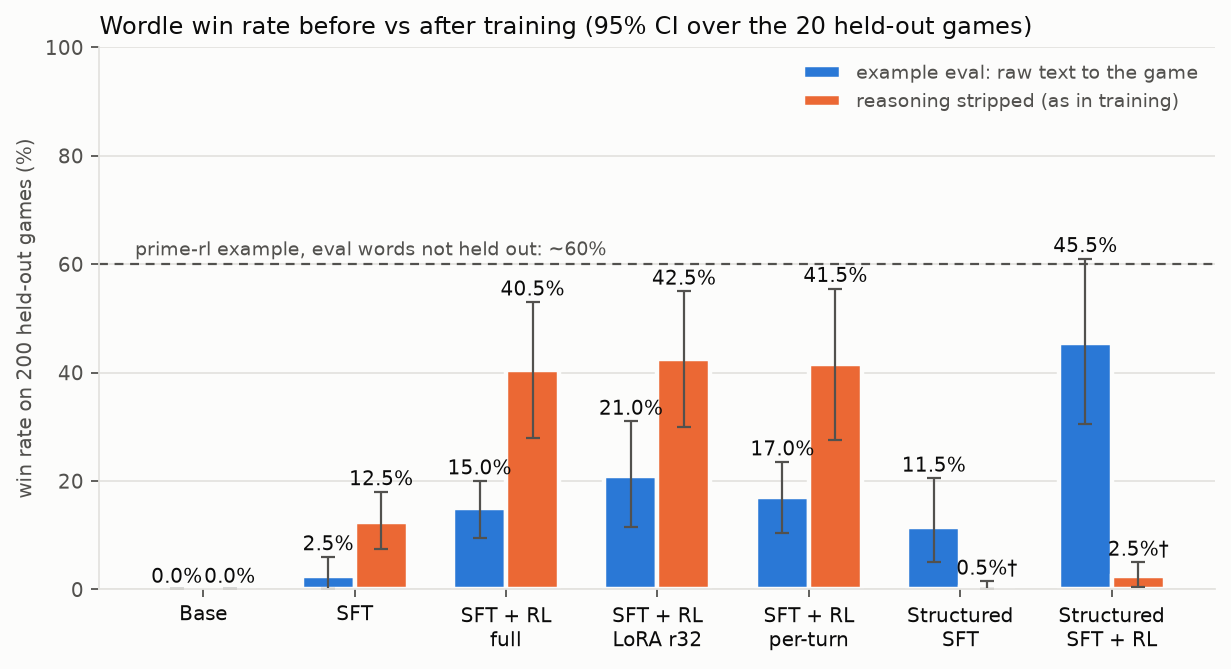
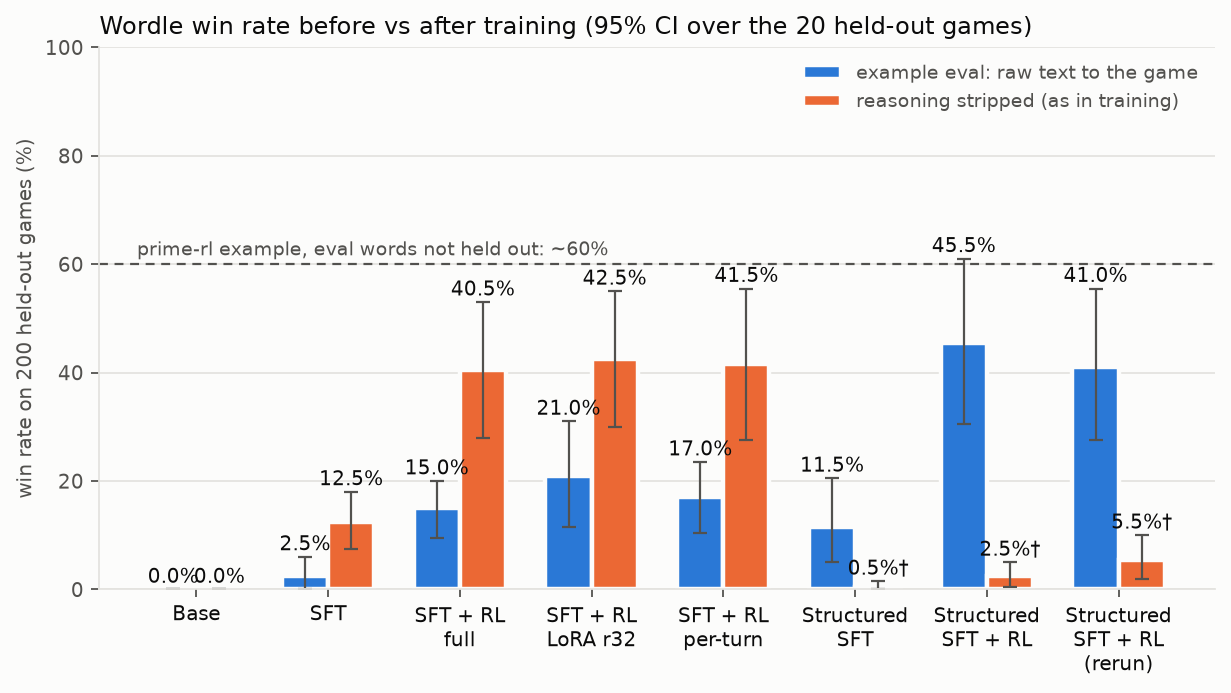
Run 3 rerun: 41.0% held-out (level with 45.5%); report both runs
- Rerun of run 3's SFT + RL on a second machine: fewer failed training games
  (7,073 vs 12,217), held-out win rate 41.0% (28-56%), level with the first
  run's 45.5%. It wins ~88% on training words late in training, so the gap is
  memorizing the 138 training words rather than infrastructure.
- make_report: name@<instance> pins a run to one machine's artifacts, so both
  run 3 evals appear; GPU-hours come from each model's own training runs.
- README, results and the experiment page carry the rerun; run 3's CPU-cap fix
  card now points at the real cause (one Python process per training game).
- Watchdog falls back to vast's ssh proxy when the direct port stops
  answering; rental search requires >= 32 usable cores.

diff --git a/scripts/make_report.py b/scripts/make_report.py
@@ -36,8 +36,10 @@ MODELS = [  # (label, eval run, training runs that produced it)
     ("+ SFT + RL (full)", "wordle-eval-rl", ["wordle-sft", "wordle-rl"]),
     ("+ SFT + RL (LoRA r32)", "wordle-eval-lora", ["wordle-sft", "wordle-rl-lora"]),
     ("+ SFT + RL (per-turn credit)", "wordle-eval-turns", ["wordle-sft", "wordle-rl-turns"]),
-    ("+ structured-thinking SFT", "wordle-eval-sft-cot", ["wordle-sft-cot"]),
-    ("+ structured SFT + RL (reweighted)", "wordle-eval-cot", ["wordle-sft-cot", "wordle-rl-cot"]),
+    # Run 3 ran twice with the same run names; name@<instance id> reads one instance's artifacts.
+    ("+ structured-thinking SFT", "wordle-eval-sft-cot@55959398", ["wordle-sft-cot@55959398"]),
+    ("+ structured SFT + RL (reweighted)", "wordle-eval-cot@55959398", ["wordle-sft-cot@55959398", "wordle-rl-cot@55959398"]),
+    ("+ structured SFT + RL, rerun", "wordle-eval-cot@56052036", ["wordle-sft-cot@56052036", "wordle-rl-cot@56052036"]),
 ]
 SEEN = [  # diagnostic: the same eval on 20 training games (configs/wordle/eval_seen.toml)
     ("+ SFT + RL (full)", "wordle-eval-rl", "wordle-eval-rl-seen"),
@@ -47,7 +49,8 @@ PARSED = {  # diagnostic: eval.toml with vLLM's qwen3 reasoning parser on the se
     "wordle-eval-base": "wordle-eval-base-parsed", "wordle-eval-sft": "wordle-eval-sft-parsed",
     "wordle-eval-rl": "wordle-eval-rl-parsed", "wordle-eval-lora": "wordle-eval-lora-parsed",
     "wordle-eval-turns": "wordle-eval-turns-parsed",
-    "wordle-eval-sft-cot": "wordle-eval-sft-cot-parsed", "wordle-eval-cot": "wordle-eval-cot-parsed",
+    "wordle-eval-sft-cot@55959398": "wordle-eval-sft-cot-parsed@55959398",
+    "wordle-eval-cot@55959398": "wordle-eval-cot-parsed@55959398", "wordle-eval-cot@56052036": "wordle-eval-cot-parsed@56052036",
 }
 TRAIN_KEY = re.compile(r"^train/agg/all/[^/]+/reward/mean$")
 
@@ -60,7 +63,7 @@ SERIES = {"wordle-rl": ("#2a78d6", "full fine-tune"), "wordle-rl-lora": ("#eb683
 # biased upward and not comparable. Its held-out eval ran afterwards with no failures.
 # Structured-thinking models: the reasoning-stripped eval drops earlier turns' thinking from the
 # history, which they never saw in training, so that column is marked and not comparable.
-STRIPPED_NOT_COMPARABLE = {"+ structured-thinking SFT", "+ structured SFT + RL (reweighted)"}
+STRIPPED_NOT_COMPARABLE = {"+ structured-thinking SFT", "+ structured SFT + RL (reweighted)", "+ structured SFT + RL, rerun"}
 # Run 2 scores games differently (outcome = win x speed), so its curve uses the game's own reward.
 GAME_REWARD_KEY = re.compile(r"^train/agg/all/[^/]+/metrics/game_reward/mean$")
 
@@ -73,7 +76,11 @@ def latest_artifacts() -> Path:
 
 
 def run_dir(art: Path, run: str) -> Path:
-    """The newest outputs/<run> across all instance artifact folders (runs span instances)."""
+    """The newest outputs/<run> across all instance artifact folders (runs span instances).
+    A run written as <name>@<instance id> is read from that instance's artifacts only."""
+    if "@" in run:
+        name, inst = run.split("@", 1)
+        return ROOT / "artifacts" / f"wordle-rl-wordle-{inst}" / "outputs" / name
     found = sorted((ROOT / "artifacts").glob(f"wordle-rl-wordle-*/outputs/{run}"), key=lambda p: p.stat().st_mtime)
     return found[-1] if found else art / "outputs" / run
 
@@ -203,7 +210,8 @@ def plot_win(rows: list[dict]) -> Path:
                 textcoords="offset points", ha="left", fontsize=8.5, color=INK2)
     short = {"Qwen3-1.7B (base)": "Base", "+ SFT warmup": "SFT", "+ SFT + RL (full)": "SFT + RL\nfull",
              "+ SFT + RL (LoRA r32)": "SFT + RL\nLoRA r32", "+ SFT + RL (per-turn credit)": "SFT + RL\nper-turn",
-             "+ structured-thinking SFT": "Structured\nSFT", "+ structured SFT + RL (reweighted)": "Structured\nSFT + RL"}
+             "+ structured-thinking SFT": "Structured\nSFT", "+ structured SFT + RL (reweighted)": "Structured\nSFT + RL",
+             "+ structured SFT + RL, rerun": "Structured\nSFT + RL\n(rerun)"}
     ax.set_xticks(list(x), [short.get(r["model"], r["model"]) for r in rows], fontsize=9, color=INK)
     ax.set_ylabel("win rate on 200 held-out games (%)", color=INK2, fontsize=9)
     ax.set_ylim(0, max(100, max(tops) + 15))
@@ -224,8 +232,7 @@ def main() -> None:
         inst = json.loads((ROOT / ".vast" / "instance.json").read_text())
     n_gpus = int(inst["gpu"].split("x")[0]) if inst else 2
 
-    hours = {run: run_hours(run_dir(art, run)) for run in ("wordle-sft", "wordle-rl", "wordle-rl-lora", "wordle-rl-turns",
-                                                       "wordle-sft-cot", "wordle-rl-cot")}
+    hours = {run: run_hours(run_dir(art, run)) for _, _, train_runs in MODELS for run in train_runs}
     rows = []
     for label, eval_run, train_runs in MODELS:
         games = eval_games(run_dir(art, eval_run)) if run_dir(art, eval_run).exists() else []

diff --git a/README.md b/README.md
@@ -2,7 +2,7 @@
 
 SFT warmup plus RL with [prime-rl](https://github.com/PrimeIntellect-ai/prime-rl), on the verifiers `wordle` taskset. Win rate is measured on 20 games whose secret words are never seen in training.
 
-**Result:** 0% → **45.5%** wins on prime-rl's example eval with structured-thinking SFT plus RL (run 3), up from 15–21% for plain SFT plus RL. Earlier models reach 40.5–42.5% when the game sees only their final answer, so like for like, run 3 is about 3–5 points ahead, within the confidence intervals.
+**Result:** 0% → **41–45.5%** wins on prime-rl's example eval with structured-thinking SFT plus RL (run 3 and a rerun), up from 15–21% for plain SFT plus RL. Earlier models reach 40.5–42.5% when the game sees only their final answer, so like for like the structured runs are level with them. The model now wins about 88% on its 138 training words but about 41% on new ones.
 
 ![Win rate before vs after training](results/plots/win_rate.png)
 
@@ -19,6 +19,7 @@ SFT warmup plus RL with [prime-rl](https://github.com/PrimeIntellect-ai/prime-rl
 | + RL, per-turn credit (run 2) | 17.0% (10–24) | 41.5% (28–56) | 0.45 / 0.64 |
 | Structured-thinking SFT (run 3) | 11.5% (5–20) | 0.5%† | 0.42 / 0.24 |
 | + RL, reweighted per-turn credit (run 3) | **45.5%** (30–61) | 2.5%† | 0.66 / 0.29 |
+| + same RL, rerun on a second machine | 41.0% (28–56) | 5.5%† | 0.66 / 0.33 |
 
 † Not comparable. With the parser on, the eval client sends earlier turns back without their thinking. The structured models were only trained on games that keep it, and without it they stop giving an answer. Training and the example eval both keep it.
 
@@ -44,8 +45,9 @@ Full tables: [results/results.md](results/results.md). One-page summary: [notes/
 8. **Structured thinking helped clue use (run 3).**
    - **SFT data:** 2,560 solver-played games on training words. Each turn's thinking writes down the clue state, spells the candidate out, then checks length, repeats and every clue, in about 90 tokens instead of about 400.
    - **RL:** run 2's per-turn setup, with the clue-violation penalty raised (0.2 → 0.5) and the information-gain bonus cut (0.5 → 0.1).
-   - **Result:** 33% of later guesses fit every earlier clue, against 20–22% for the earlier models.
-9. **Writing the checks isn't doing them.** After SFT alone, the model marks every check ✓, yet only 11% of its later guesses fit the clues; 57% follow a wrong clue summary. A first version of the data without length or repeat checks lost about half its games to invalid moves, mostly wrong-length words.
+   - **Result:** 33% of later guesses fit every earlier clue, against 20–22% for the earlier models (25% in the rerun).
+9. **Run 3 learns its training words.** A rerun with fewer failed training games scored 41.0%, level with the first run. Over its last 10 steps, with no failed games, it won 88% of training-word games against 41% held out, a far wider gap than the earlier models showed. Training games go through prime-rl's rollout path rather than the eval harness, so the two aren't identical measurements.
+10. **Writing the checks isn't doing them.** After SFT alone, the model marks every check ✓, yet only 11% of its later guesses fit the clues; 57% follow a wrong clue summary. A first version of the data without length or repeat checks lost about half its games to invalid moves, mostly wrong-length words.
 
 ## Training schedule
 
@@ -57,10 +59,11 @@ Full tables: [results/results.md](results/results.md). One-page summary: [notes/
 | RL, per-turn credit (run 2) | same | 200 × 128 | 1e-6 | 2.5 h |
 | Structured-thinking SFT (run 3) | 2,560 solver-played games, eval words removed | 40 × 64 | 1e-5 | 11 min |
 | RL, reweighted per-turn credit (run 3) | same seeds | 200 × 128 | 1e-6 | 5.0 h* |
+| Same RL, rerun on a second machine | same seeds | 200 × 128 | 1e-6 | 2.3 h* |
 
 Each RL step uses prime-rl's IPO loss with GRPO advantages: reward minus the mean of the 16 tries at the same word. Runs 2–3 also give each turn its own advantage (`turn_grpo`, [patches/](patches/)). Context is 8,192 tokens per game.
 
-\* Run 3 ran on a slower machine that lost about a quarter of each step's rollouts to inference outages (see below). prime-rl drops failed rollouts, and an outage is more likely to catch a long (usually losing) game, so run 3's training reward is likely biased upward and is left out of the plot. Its held-out eval ran afterwards with no failures.
+\* Both run 3 machines lost rollouts to inference outages (see below): about a quarter of each step's on the first, and 7,073 in total on the second, mostly between steps 60 and 130. prime-rl drops failed rollouts, and an outage is more likely to catch a long (usually losing) game, so run 3's training reward is likely biased upward and is left out of the plot. The held-out evals ran afterwards with no failures.
 
 ## Architecture
 
@@ -81,7 +84,7 @@ The env server runs each game and calls vLLM for every model turn; the orchestra
 | One env worker: 0.87 s per new game stalled the rest | static pool of 16 workers (3.5 min → 70 s per step) |
 | 21 GB checkpoints on a 100 GB disk | delete optimizer state after export |
 | First weight sync hung on GPUs without NVLink | set `NCCL_P2P_DISABLE=0 NCCL_SHM_DISABLE=0` before launch |
-| Container capped at 20.5 CPUs while showing 64: vLLM missed health checks and ~24% of rollouts failed | not fixed; use hosts with ≥ 32 usable cores |
+| Container CPU cap (20.5 and 30.7 CPUs) with one Python process started per game: vLLM missed health checks and rollouts failed | not fixed; lowering the game workers' priority helped briefly. Needs games without a new process each, or fewer workers |
 | Run 3's first SFT data never checked length or repeats | spell each candidate out and check those first |
 
 ## Reproduce

diff --git a/results/results.md b/results/results.md
@@ -12,6 +12,7 @@ never seen in SFT or RL) × 10 rollouts = 200 games, temperature 1.0, 1024 token
 | + SFT + RL (per-turn credit) | 17.0% (10–24%) | 0.45 | 6.96 | 4.32 | 2.4% | 4.94 |
 | + structured-thinking SFT | 11.5% (5–20%) | 0.42 | 6.00 | 4.57 | 4.1% | 0.31 |
 | + structured SFT + RL (reweighted) | 45.5% (30–61%) | 0.66 | 5.62 | 4.36 | 12.3% | 10.31 |
+| + structured SFT + RL, rerun | 41.0% (28–56%) | 0.66 | 5.61 | 4.29 | 6.6% | 4.80 |
 
 ### Same eval with reasoning stripped (diagnostic)
 
@@ -28,6 +29,7 @@ eval passes the raw text, and the game plays the first bracketed word, often a g
 | + SFT + RL (per-turn credit) | 41.5% (28–56%) | 0.64 | 5.88 | 4.53 | 9.1% |
 | + structured-thinking SFT | 0.5%† (0–2%) | 0.24 | 3.97 | 3.00 | 56.0% |
 | + structured SFT + RL (reweighted) | 2.5%† (0–5%) | 0.29 | 4.09 | 3.20 | 55.4% |
+| + structured SFT + RL, rerun | 5.5%† (2–10%) | 0.33 | 4.25 | 2.64 | 53.6% |
 
 † Not comparable: with the parser on, the eval client sends earlier turns back without their
 thinking; the structured-thinking models were trained only on games that keep it, and without it
